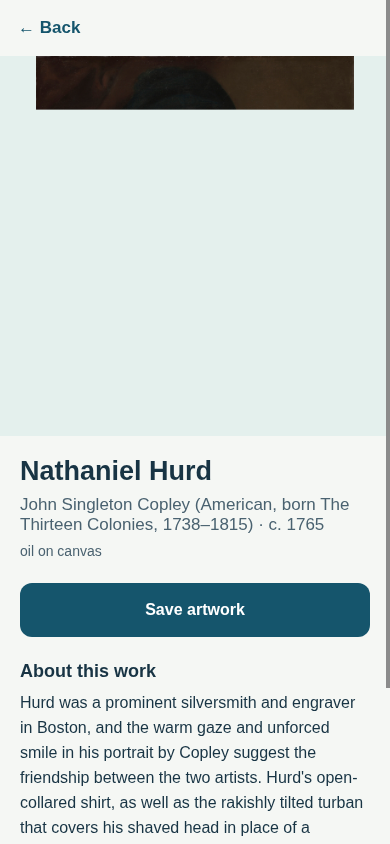
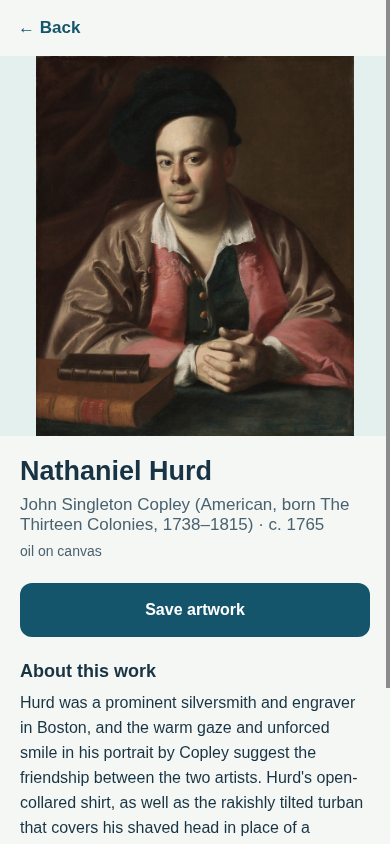
Fix artwork image layout in browser and recapture evidence

diff --git a/src/components/ArtworkCard.tsx b/src/components/ArtworkCard.tsx
@@ -1,7 +1,6 @@
 import React from 'react';
-import { Pressable, Text, View } from 'react-native';
+import { Image, Pressable, Text, View } from 'react-native';
 import { Artwork } from '../api/artworks';
-import { Image } from 'expo-image';
 import { Palette, Settings, textSize } from '../ui/theme';
 
 export function ArtworkCard({ art, onOpen, colors, settings, localImage }: {
@@ -11,7 +10,7 @@ export function ArtworkCard({ art, onOpen, colors, settings, localImage }: {
     onPress={onOpen} style={{ backgroundColor: colors.surface, borderColor: colors.border, borderWidth: 1,
       borderRadius: 14, marginHorizontal: 16, marginVertical: 6, overflow: 'hidden', minHeight: 132, flexDirection: 'row' }}>
     {(localImage || (art.imageUrl && !settings.lowData)) ? <Image source={{ uri: localImage || art.imageUrl }}
-      style={{ width: 112, height: 132, backgroundColor: colors.soft }} contentFit="cover" cachePolicy="disk"
+      style={{ width: 112, height: 132, backgroundColor: colors.soft }} resizeMode="cover"
       accessibilityLabel={`Image of ${art.title}`} /> : <View style={{ width: 112, backgroundColor: colors.soft, justifyContent: 'center' }}><Text style={{ textAlign: 'center', color: colors.muted }}>Image hidden</Text></View>}
     <View style={{ flex: 1, padding: 14, justifyContent: 'center' }}>
       <Text numberOfLines={settings.largeText ? 3 : 2} style={{ fontWeight: '700', color: colors.ink, fontSize: textSize(18, settings) }}>{art.title}</Text>

diff --git a/src/screens/DetailScreen.tsx b/src/screens/DetailScreen.tsx
@@ -1,6 +1,5 @@
 import React, { useState } from 'react';
-import { Pressable, ScrollView, Text, View } from 'react-native';
-import { Image } from 'expo-image';
+import { Image, Pressable, ScrollView, Text, View } from 'react-native';
 import { Artwork } from '../api/artworks';
 import { Saved } from '../db/store';
 import { Palette, Settings, textSize } from '../ui/theme';
@@ -15,7 +14,7 @@ export function DetailScreen({ art, saved, busy, error, onBack, onSave, onRemove
     <Pressable accessibilityRole="button" accessibilityLabel="Back to artworks" onPress={onBack} style={{ padding: 18, minHeight: 52 }}>
       <Text style={{ color: colors.accent, fontSize: textSize(17, settings), fontWeight: '700' }}>← Back</Text>
     </Pressable>
-    {image && showImage ? <Image source={{ uri: image }} contentFit="contain" cachePolicy="disk"
+    {image && showImage ? <Image source={{ uri: image }} resizeMode="contain"
       accessibilityLabel={`Artwork image: ${art.title}`} style={{ width: '100%', height: 380, backgroundColor: colors.soft }} />
       : <Pressable accessibilityRole="button" accessibilityLabel={`Load image for ${art.title}`} onPress={() => setShowImage(true)}
         style={{ height: 200, justifyContent: 'center', backgroundColor: colors.soft }}>
